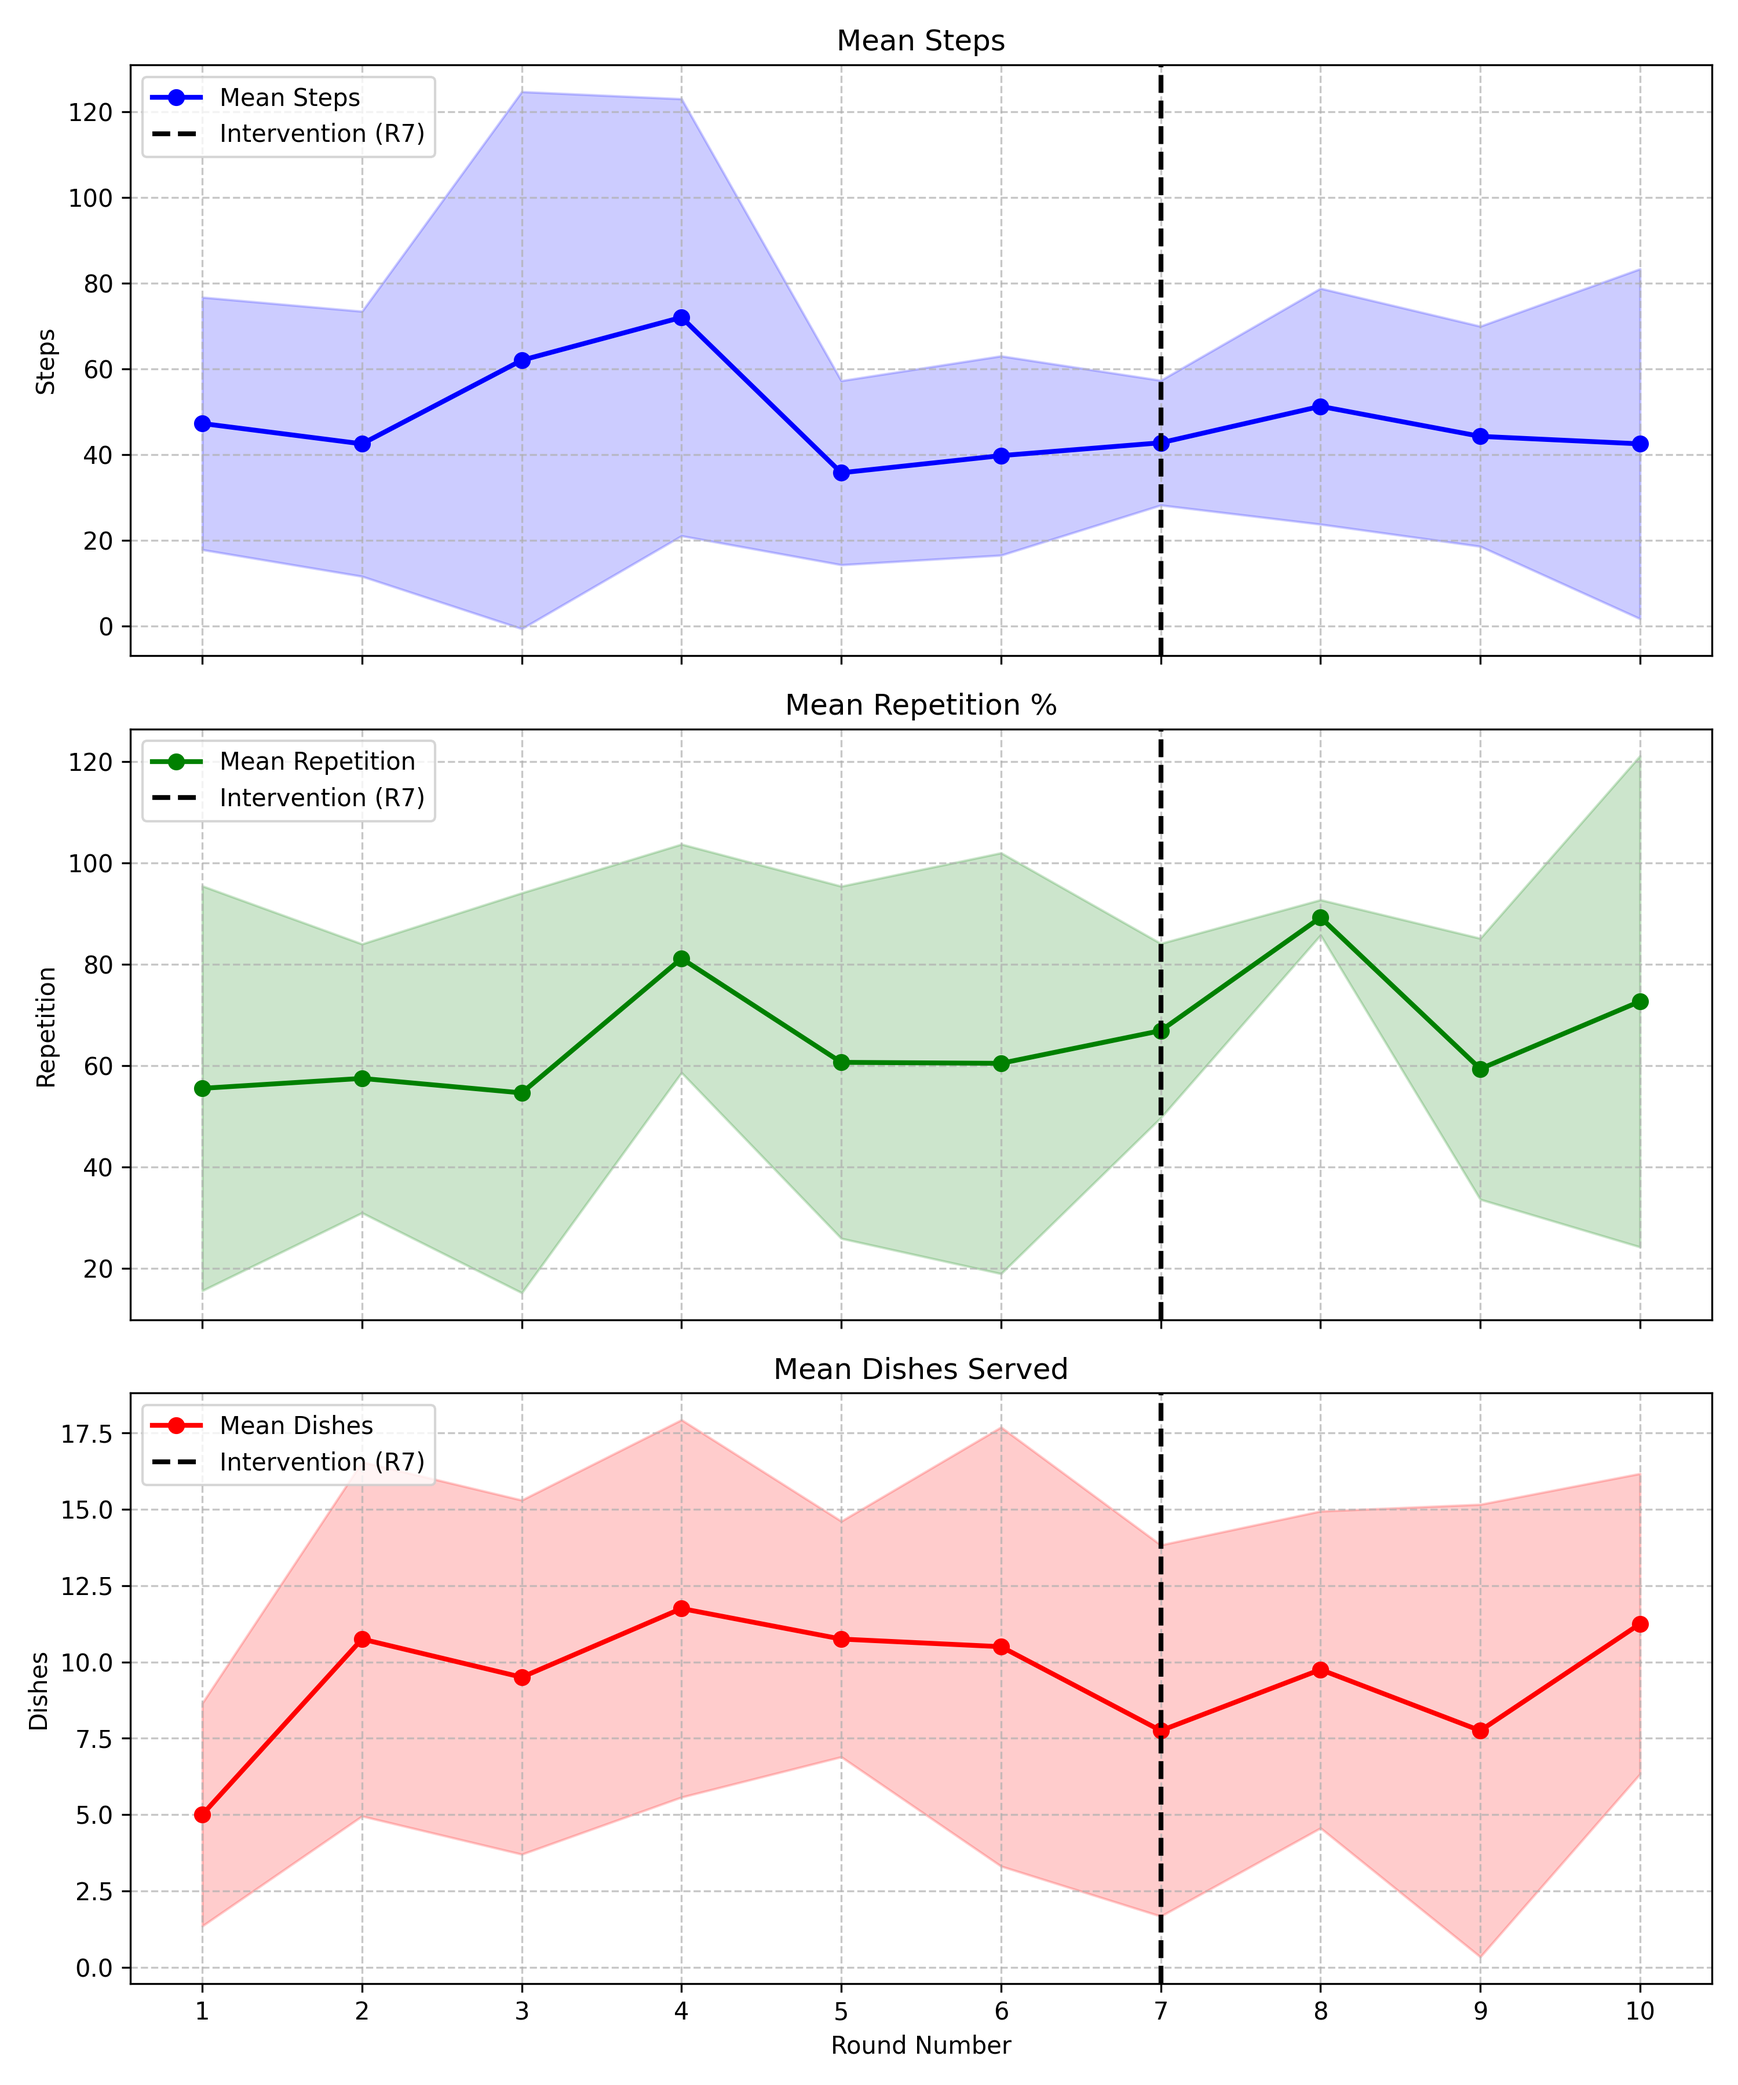
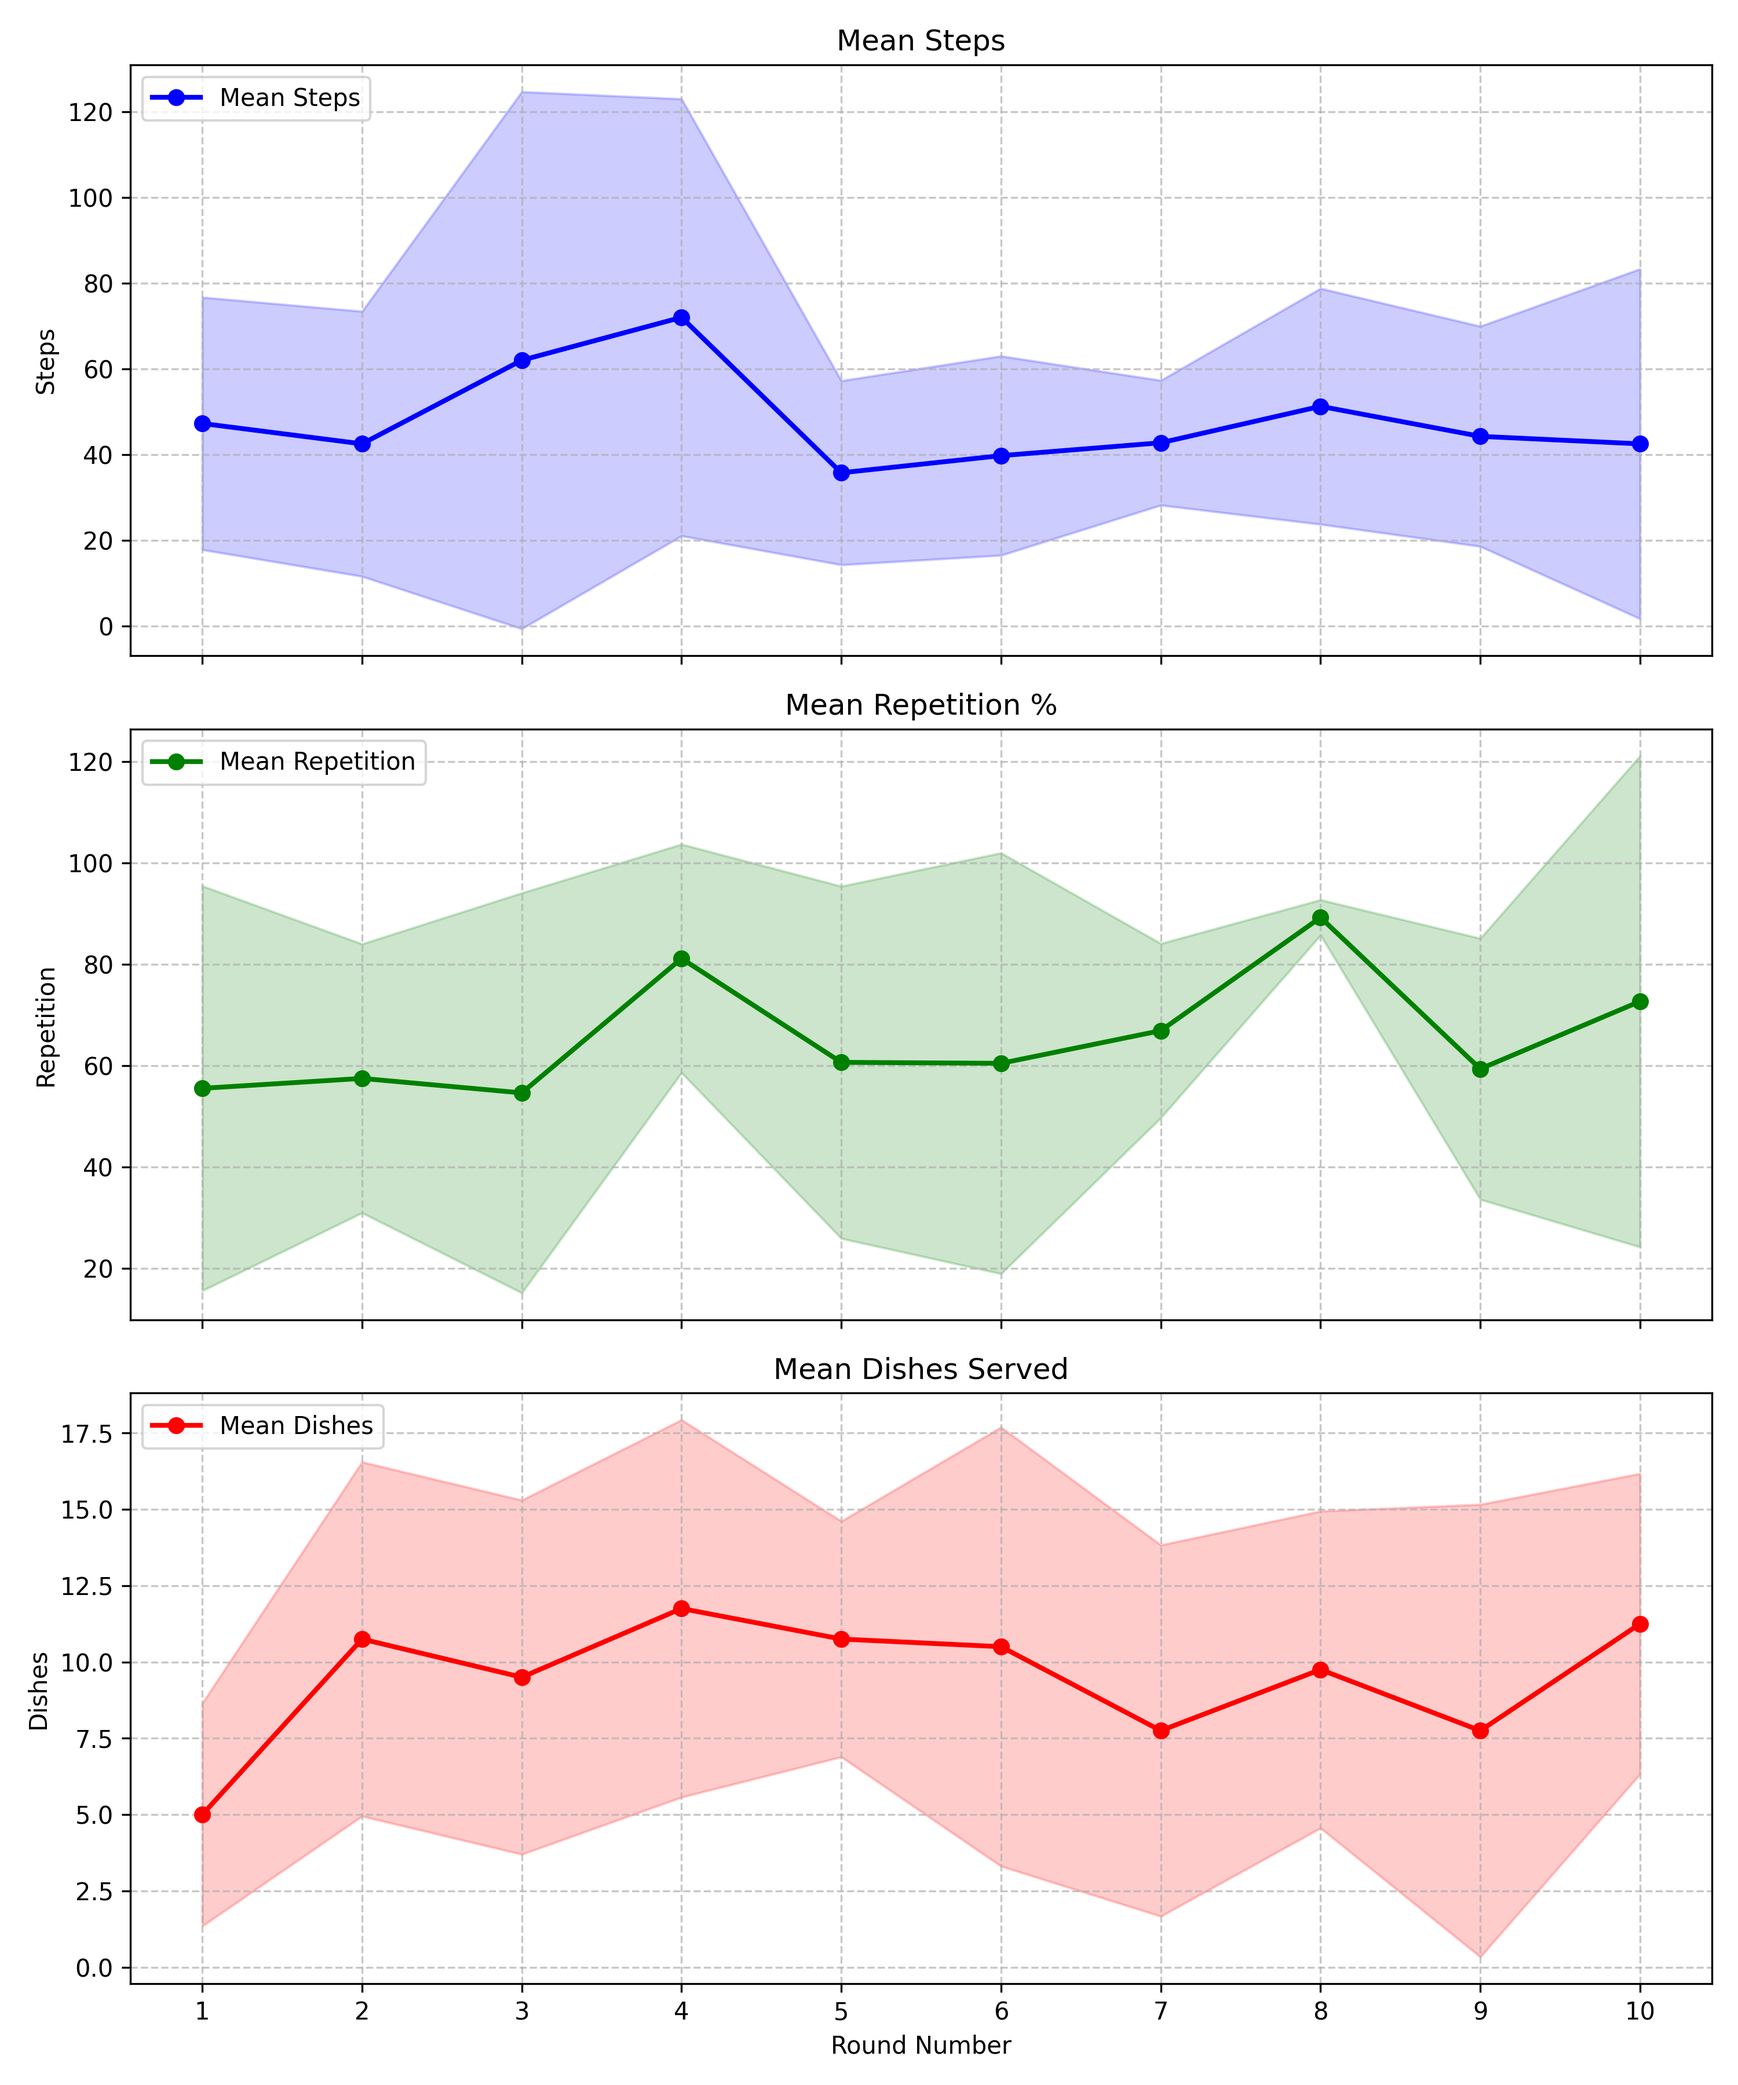
graphs

Changed region(s): [[0.093, 0.6844, 0.248, 0.7156], [0.093, 0.3733, 0.248, 0.4044], [0.124, 0.0622, 0.217, 0.0933]]

diff --git a/Equilibrium_project/plot_habit_convergence.py b/Equilibrium_project/plot_habit_convergence.py
@@ -1,0 +1,151 @@
+import pandas as pd
+import matplotlib.pyplot as plt
+import glob
+import os
+from collections import Counter
+
+# --- CONFIGURATION ---
+FILE_PATTERN = "pilot*.csv" 
+
+def get_sequences(path, seq_len=4):
+    """Converts a path [(x,y), (x,y)...] into a set of 4-step sequences."""
+    if len(path) < seq_len:
+        return set()
+    sequences = []
+    for i in range(len(path) - seq_len + 1):
+        sequences.append(tuple(path[i : i + seq_len]))
+    return sequences
+
+def calculate_similarity(current_path, prev_path_sequences):
+    """Calculates % of current moves that match the previous round."""
+    if not current_path or not prev_path_sequences:
+        return 0.0
+    
+    current_sequences = get_sequences(current_path)
+    if not current_sequences:
+        return 0.0
+        
+    current_set = set(current_sequences)
+    prev_set = set(prev_path_sequences)
+    
+    if len(current_set) == 0:
+        return 0.0
+
+    common = current_set.intersection(prev_set)
+    similarity = (len(common) / len(current_set)) * 100
+    return similarity
+
+def analyze_pilot(filename):
+    try:
+        df = pd.read_csv(filename)
+    except:
+        return None
+
+    # Skip files that are likely summaries (don't have movement columns)
+    required = ['Round', 'Human_X', 'Human_Y']
+    if not all(col in df.columns for col in required):
+        return None
+
+    if 'Score' in df.columns and 'Score_Count' not in df.columns:
+        df.rename(columns={'Score': 'Score_Count'}, inplace=True)
+    
+    pilot_name = os.path.basename(filename).replace('.csv', '').capitalize()
+    rounds = sorted(df['Round'].unique())
+    
+    metrics = []
+    prev_path_sequences = None 
+
+    for r in rounds:
+        round_data = df[df['Round'] == r]
+        
+        raw_path = list(zip(round_data['Human_X'], round_data['Human_Y']))
+        # Remove standing still
+        path = [x for i, x in enumerate(raw_path) if i == 0 or x != raw_path[i-1]]
+        
+        # 1. Internal Repetition
+        repetition = 0.0
+        current_sequences_list = get_sequences(path)
+        if current_sequences_list:
+            counts = Counter(current_sequences_list)
+            repeats = sum(freq for seq, freq in counts.items() if freq > 1)
+            repetition = (repeats / len(current_sequences_list)) * 100
+            
+        # 2. History Similarity
+        similarity = 0.0
+        if prev_path_sequences is not None:
+            similarity = calculate_similarity(path, prev_path_sequences)
+        
+        prev_path_sequences = set(current_sequences_list)
+
+        metrics.append({
+            'Round': r,
+            'Repetition': repetition,
+            'Similarity': similarity
+        })
+        
+    return pilot_name, pd.DataFrame(metrics)
+
+def main():
+    files = glob.glob(FILE_PATTERN)
+    if not files:
+        print("No pilot files found.")
+        return
+
+    # 1. PROCESS DATA FIRST
+    # We collect only valid results so we know exactly how many plots to make
+    valid_results = []
+    for f in files:
+        # Optional: Exclude Pilot 2 if you still want to
+        # if "pilot2" in f.lower(): continue
+        
+        result = analyze_pilot(f)
+        if result:
+            valid_results.append(result)
+
+    num_pilots = len(valid_results)
+    if num_pilots == 0:
+        print("No valid pilot data found (checked for Human_X/Y columns).")
+        return
+
+    print(f"Plotting {num_pilots} valid participants...")
+
+    # 2. SETUP PLOT GRID
+    # Dynamic width based on exact number of valid pilots
+    fig, axs = plt.subplots(1, num_pilots, figsize=(5 * num_pilots, 5), sharey=True)
+    
+    if num_pilots == 1:
+        axs = [axs]
+
+    # 3. PLOT
+    for i, (name, data) in enumerate(valid_results):
+        ax = axs[i]
+        
+        # Blue Line: "Loopiness"
+        ax.plot(data['Round'], data['Repetition'], 
+                marker='o', color='blue', linewidth=2, label='Loopiness (Within)')
+        
+        # Orange Line: "Strategy Lock"
+        ax.plot(data['Round'], data['Similarity'], 
+                marker='x', color='orange', linestyle='--', linewidth=2, label='Strategy Lock (vs Prev)')
+
+        ax.set_title(f"{name}", fontsize=12, fontweight='bold')
+        ax.set_ylim(-5, 105)
+        ax.set_xticks(range(1, 11))
+        ax.grid(True, alpha=0.3)
+        
+        # Red "Habit Zone"
+        ax.axhspan(80, 100, color='red', alpha=0.1, label='Habit Set Zone')
+        
+        ax.set_xlabel("Round Number")
+        
+        if i == 0:
+            ax.set_ylabel("Behavior Score (%)")
+            ax.legend(loc='lower right', fontsize='small')
+
+    plt.tight_layout()
+    output_file = 'habit_convergence_horizontal.png'
+    plt.savefig(output_file, dpi=300)
+    print(f"Graph saved as '{output_file}'")
+
+if __name__ == "__main__":
+    main()

diff --git a/Equilibrium_project/plot_habit_convergence_mean.py b/Equilibrium_project/plot_habit_convergence_mean.py
@@ -1,0 +1,156 @@
+import pandas as pd
+import matplotlib.pyplot as plt
+import glob
+import os
+from collections import Counter
+import numpy as np
+
+# --- CONFIGURATION ---
+FILE_PATTERN = "pilot*.csv" 
+
+def get_sequences(path, seq_len=4):
+    """Converts a path [(x,y), (x,y)...] into a set of 4-step sequences."""
+    if len(path) < seq_len:
+        return set()
+    sequences = []
+    for i in range(len(path) - seq_len + 1):
+        sequences.append(tuple(path[i : i + seq_len]))
+    return sequences
+
+def calculate_similarity(current_path, prev_path_sequences):
+    """Calculates % of current moves that match the previous round."""
+    if not current_path or not prev_path_sequences:
+        return 0.0
+    
+    current_sequences = get_sequences(current_path)
+    if not current_sequences:
+        return 0.0
+        
+    current_set = set(current_sequences)
+    prev_set = set(prev_path_sequences)
+    
+    if len(current_set) == 0:
+        return 0.0
+
+    common = current_set.intersection(prev_set)
+    similarity = (len(common) / len(current_set)) * 100
+    return similarity
+
+def analyze_pilot(filename):
+    try:
+        df = pd.read_csv(filename)
+    except:
+        return None
+
+    # Skip files that are likely summaries
+    required = ['Round', 'Human_X', 'Human_Y']
+    if not all(col in df.columns for col in required):
+        return None
+
+    if 'Score' in df.columns and 'Score_Count' not in df.columns:
+        df.rename(columns={'Score': 'Score_Count'}, inplace=True)
+    
+    pilot_name = os.path.basename(filename).replace('.csv', '').capitalize()
+    rounds = sorted(df['Round'].unique())
+    
+    metrics = []
+    prev_path_sequences = None 
+
+    for r in rounds:
+        round_data = df[df['Round'] == r]
+        
+        raw_path = list(zip(round_data['Human_X'], round_data['Human_Y']))
+        # Remove standing still
+        path = [x for i, x in enumerate(raw_path) if i == 0 or x != raw_path[i-1]]
+        
+        # 1. Internal Repetition
+        repetition = 0.0
+        current_sequences_list = get_sequences(path)
+        if current_sequences_list:
+            counts = Counter(current_sequences_list)
+            repeats = sum(freq for seq, freq in counts.items() if freq > 1)
+            repetition = (repeats / len(current_sequences_list)) * 100
+            
+        # 2. History Similarity
+        similarity = 0.0
+        if prev_path_sequences is not None:
+            similarity = calculate_similarity(path, prev_path_sequences)
+        
+        prev_path_sequences = set(current_sequences_list)
+
+        metrics.append({
+            'Round': r,
+            'Repetition': repetition,
+            'Similarity': similarity
+        })
+        
+    return pilot_name, pd.DataFrame(metrics)
+
+def main():
+    files = glob.glob(FILE_PATTERN)
+    if not files:
+        print("No pilot files found.")
+        return
+
+    # 1. PROCESS DATA
+    all_metrics = []
+    print("Processing files...")
+    
+    for f in files:
+        # Note: If you want to exclude Pilot 2, uncomment below:
+        if "pilot2" in f.lower(): continue
+        
+        result = analyze_pilot(f)
+        if result:
+            name, data = result
+            data['Pilot'] = name
+            all_metrics.append(data)
+
+    if not all_metrics:
+        print("No valid pilot data found.")
+        return
+
+    combined_df = pd.concat(all_metrics)
+
+    # 2. CALCULATE STATISTICS (Just Mean)
+    grouped = combined_df.groupby('Round').agg({
+        'Repetition': 'mean',
+        'Similarity': 'mean'
+    })
+
+    print("Aggregated Data (Mean):")
+    print(grouped)
+
+    # 3. PLOT
+    fig, ax = plt.subplots(figsize=(10, 6))
+    
+    rounds = grouped.index
+    
+    # -- Plot Repetition (Blue) --
+    rep_mean = grouped['Repetition']
+    ax.plot(rounds, rep_mean, marker='o', color='blue', linewidth=2, label='Mean Loopiness (Within-Round)')
+    
+    # -- Plot Similarity (Orange) --
+    sim_mean = grouped['Similarity']
+    ax.plot(rounds, sim_mean, marker='x', color='orange', linestyle='--', linewidth=2, label='Mean Strategy Lock (vs Prev Round)')
+
+    # -- Aesthetics --
+    ax.set_title("Habit Convergence: Mean Across Pilots", fontsize=14, fontweight='bold')
+    ax.set_xlabel("Round Number")
+    ax.set_ylabel("Behavior Score (%)")
+    ax.set_ylim(-5, 105)
+    ax.set_xticks(range(1, 11))
+    ax.grid(True, alpha=0.3)
+    
+    # Red "Habit Zone"
+    ax.axhspan(80, 100, color='red', alpha=0.1, label='Habit Set Zone')
+    
+    ax.legend(loc='lower right')
+
+    plt.tight_layout()
+    output_file = 'habit_convergence_mean_clean.png'
+    plt.savefig(output_file, dpi=300)
+    print(f"Graph saved as '{output_file}'")
+
+if __name__ == "__main__":
+    main()

diff --git a/Equilibrium_project/plot_pilot_analysis.py b/Equilibrium_project/plot_pilot_analysis.py
@@ -125,7 +125,6 @@ def main():
         axs[i].set_ylabel(metric)
         axs[i].set_title(title)
         axs[i].grid(True, linestyle='--', alpha=0.7)
-        axs[i].axvline(x=7, color='black', linestyle='--', linewidth=2, label='Intervention (R7)')
         axs[i].legend(loc='upper left')
 
     axs[2].set_xlabel('Round Number')
